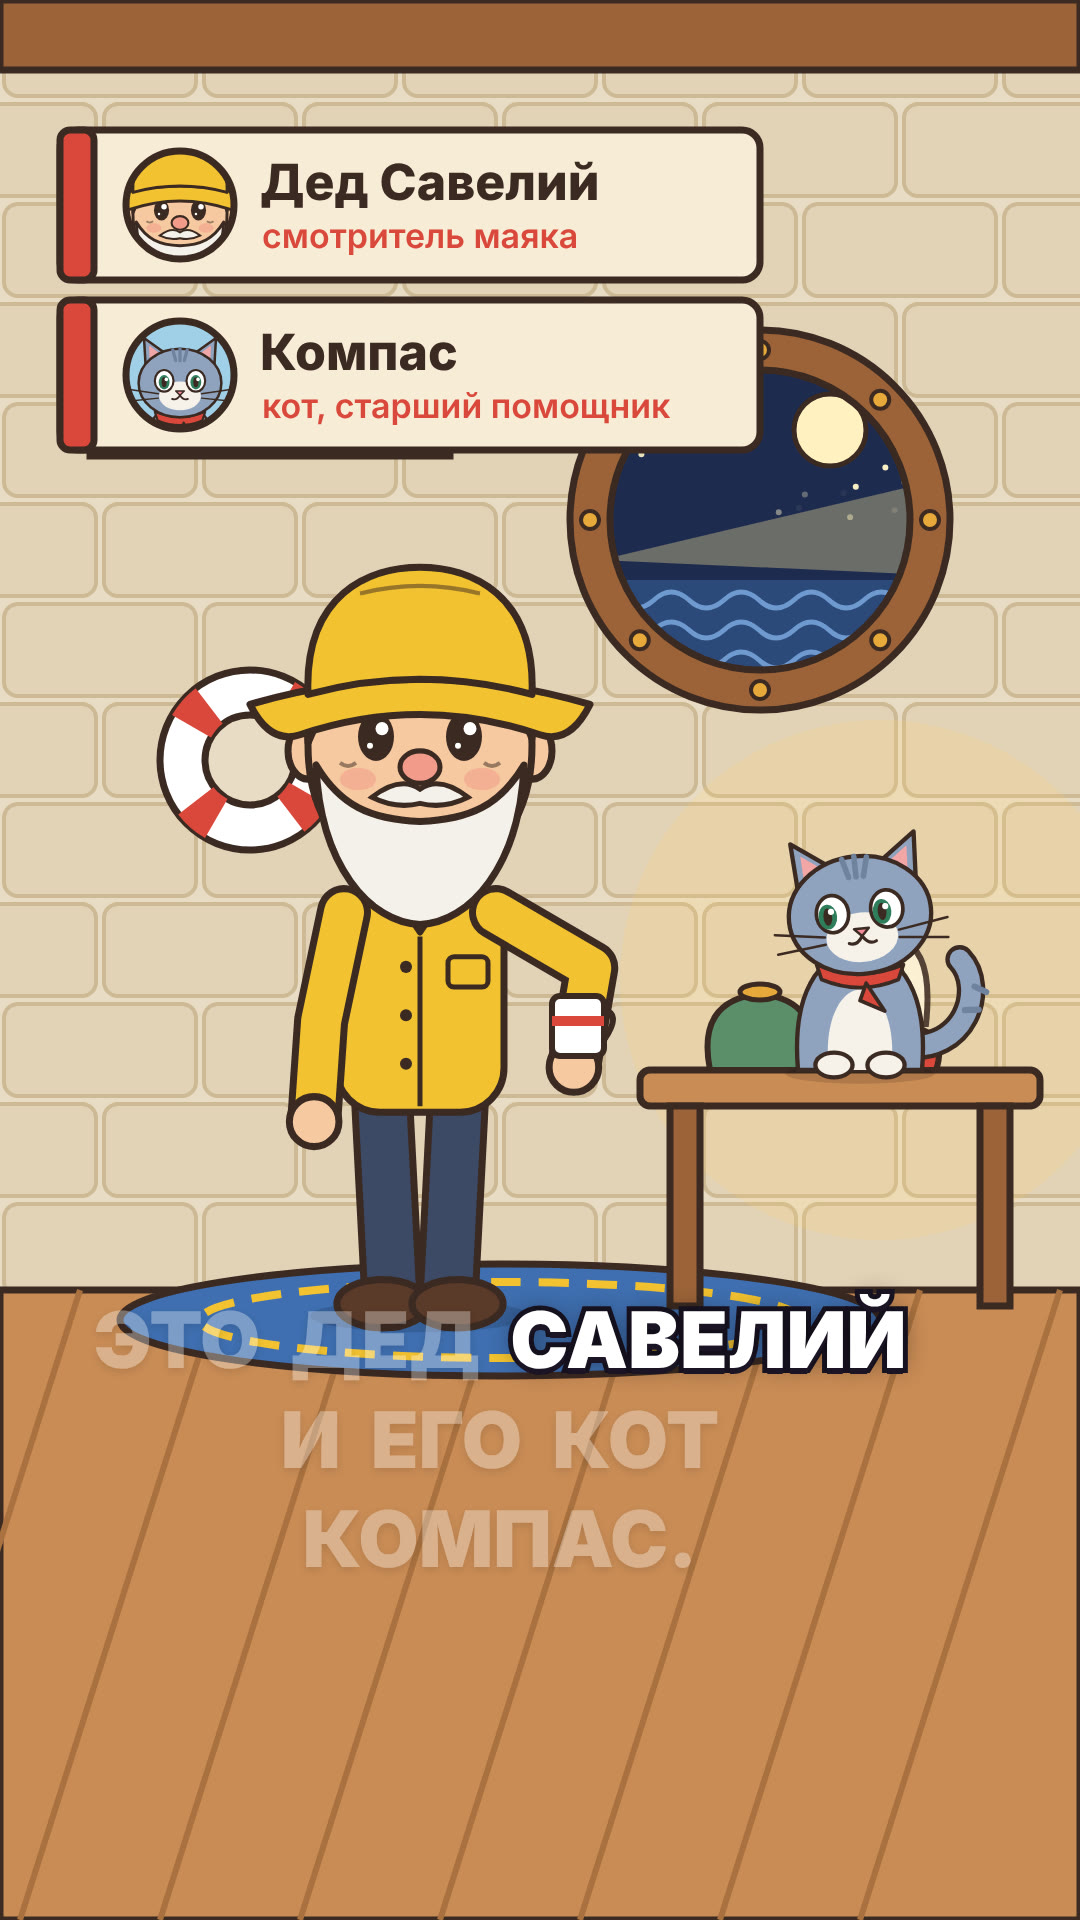
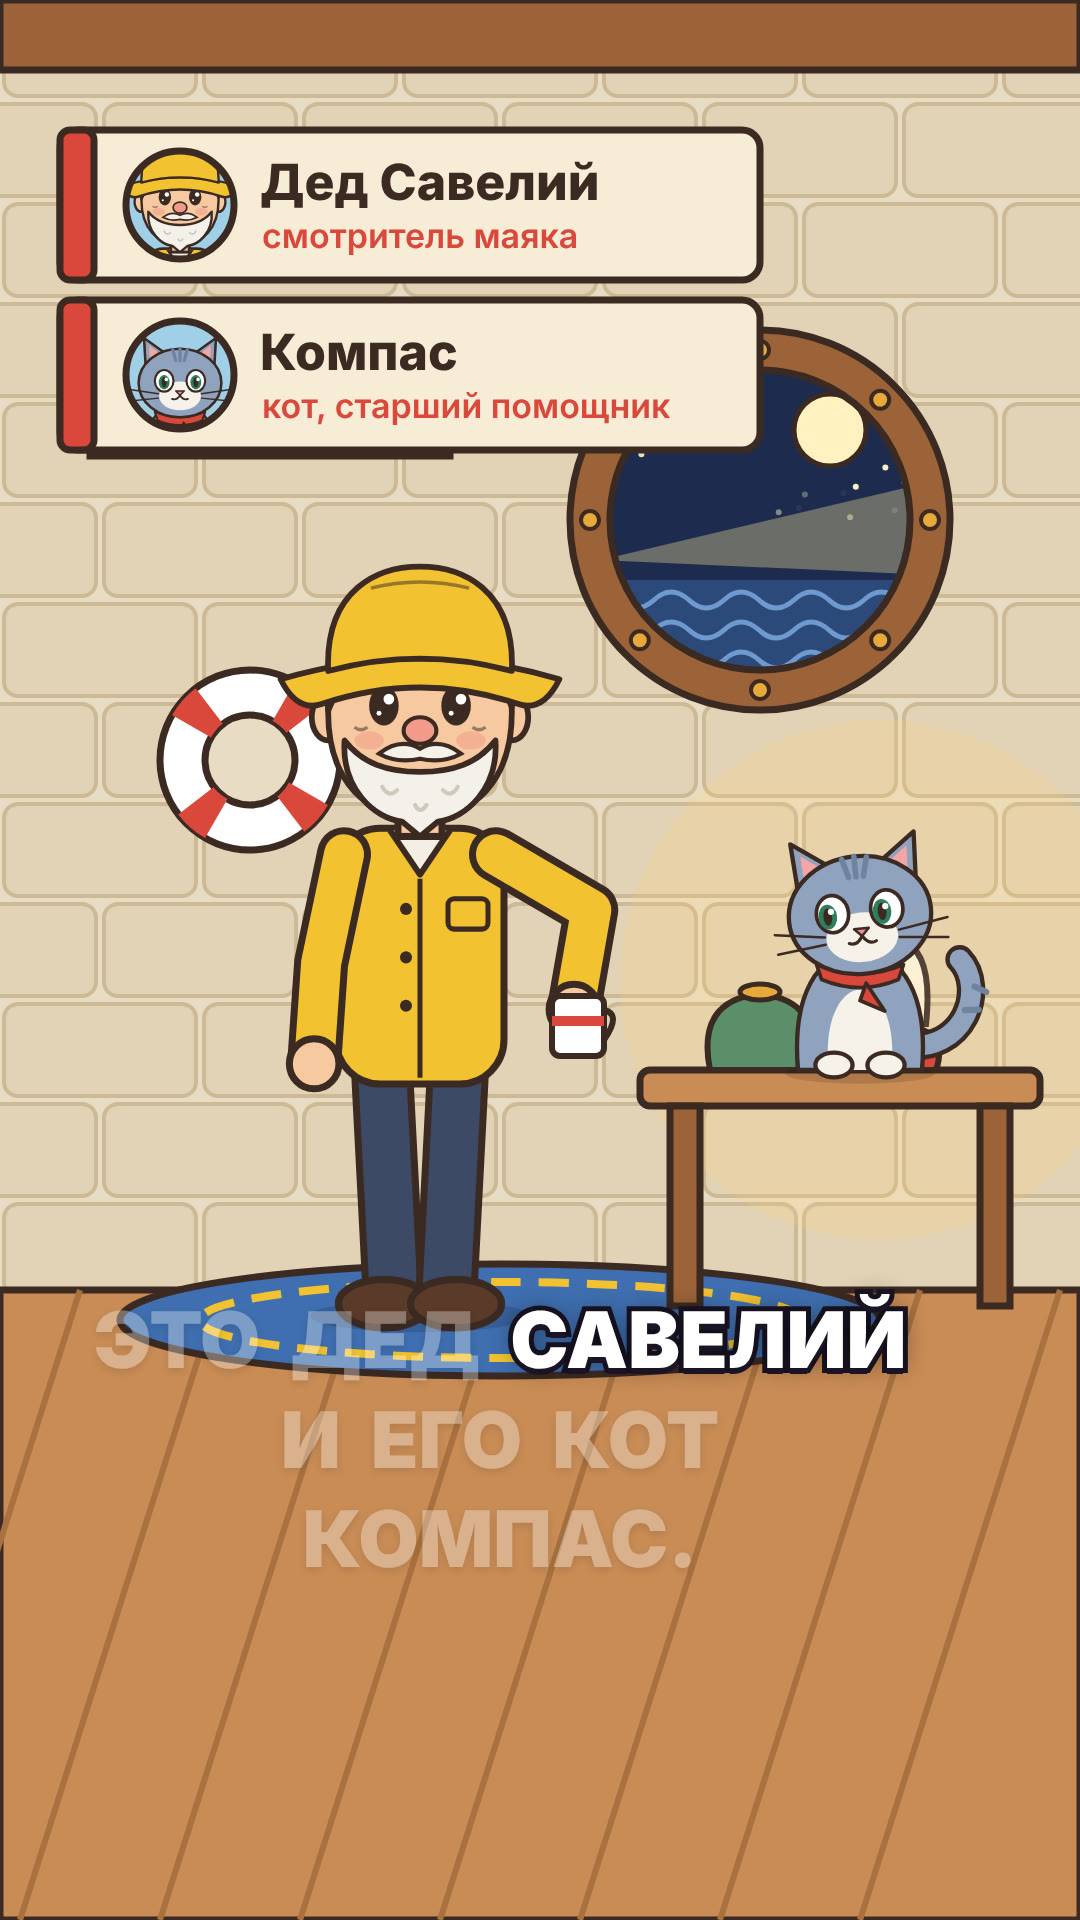
Keeper: smaller head, shorter beard, longer body
Claude-Session: https://claude.ai/code/session_01FMPcmzreS5vfUHK36F77hk

Changed region(s): [[0.2139, 0.2812, 0.5806, 0.6562], [0.1222, 0.0938, 0.2139, 0.1562], [0.5194, 0.5625, 0.55, 0.5938]]

diff --git a/videos/dvazhdy/src/cartoon/parts.tsx b/videos/dvazhdy/src/cartoon/parts.tsx
@@ -193,6 +193,8 @@ export type CharProps = {
 	hat?: 'souwester';
 	hatColor?: string;
 	nose?: boolean;
+	headS?: number; // head size multiplier
+	bodyS?: number; // torso + legs length multiplier
 };
 
 export const Char: React.FC<CharProps> = (p) => {
@@ -226,14 +228,16 @@ export const Char: React.FC<CharProps> = (p) => {
 		hat,
 		hatColor = C.ochre,
 		nose = false,
+		headS = 1,
+		bodyS = 1,
 	} = p;
 	const breathe = Math.sin(t * 2.2 + blinkSeed) * 0.012;
 	const cyc = (t + blinkSeed * 1.7) % 3.4;
 	const blink = cyc > 3.2 && cyc < 3.32 ? 0.15 : 1;
-	const legLen = kid ? 80 : 100;
+	const legLen = (kid ? 80 : 100) * bodyS;
 	const hipY = -legLen * 2 - 10;
-	const shY = hipY - (kid ? 150 : 210);
-	const headY = shY - (kid ? 120 : 140);
+	const shY = hipY - (kid ? 150 : 210) * bodyS;
+	const headY = shY - (kid ? 120 : 140) * headS;
 	const shoulderX = kid ? 62 : 84;
 	const hairCol = hair === 'old' || hair === 'boss' ? C.gray : C.hair;
 	const skin = C.skin;
@@ -298,8 +302,8 @@ export const Char: React.FC<CharProps> = (p) => {
 					</g>
 				)}
 				{/* neck + head */}
-				<rect x={-22} y={headY + 100} width={44} height={shY - headY - 90} fill={skin} stroke={OL} strokeWidth={OW} />
-				<g transform={`translate(0 ${headY}) rotate(${headTilt}) scale(${kid ? 0.82 : 1})`}>
+				<rect x={-22} y={headY + 100 * headS} width={44} height={shY - headY - 90 * headS} fill={skin} stroke={OL} strokeWidth={OW} />
+				<g transform={`translate(0 ${headY}) rotate(${headTilt}) scale(${(kid ? 0.82 : 1) * headS})`}>
 					{/* hair back (bun) */}
 					{hair === 'wife' && <circle cx={0} cy={-128} r={46} fill={hairCol} stroke={OL} strokeWidth={OW} />}
 					{/* ears */}
@@ -327,9 +331,12 @@ export const Char: React.FC<CharProps> = (p) => {
 					)}
 					<path d="M -4 16 Q 8 28 -6 34" stroke={OL} strokeWidth={6} fill="none" strokeLinecap="round" />
 					{beard && (
-						<path d="M -104 20 C -100 120 -50 176 0 178 C 50 176 100 120 104 20 C 80 60 50 74 0 76 C -50 74 -80 60 -104 20 Z" fill="#f4f1ea" stroke={OL} strokeWidth={OW} strokeLinejoin="round" />
+						<g>
+							<path d="M -92 34 C -96 92 -56 128 -22 132 L 0 150 L 22 132 C 56 128 96 92 92 34 C 70 62 40 72 0 72 C -40 72 -70 62 -92 34 Z" fill="#f4f1ea" stroke={OL} strokeWidth={OW} strokeLinejoin="round" />
+							<path d="M -46 90 q 8 14 18 4 M 28 94 q 10 10 18 -4 M -6 112 q 6 12 14 0" fill="none" stroke="#cfc8bb" strokeWidth={5} strokeLinecap="round" />
+							<path d="M -50 50 Q -24 30 0 44 Q 24 30 50 50 Q 28 62 0 56 Q -28 62 -50 50 Z" fill="#f4f1ea" stroke={OL} strokeWidth={5} />
+						</g>
 					)}
-					{beard && <path d="M -48 52 Q -20 30 0 44 Q 20 30 48 52 Q 24 64 0 58 Q -24 64 -48 52 Z" fill="#f4f1ea" stroke={OL} strokeWidth={5} />}
 					{nose && <ellipse cx={0} cy={22} rx={20} ry={16} fill={C.cheek} stroke={OL} strokeWidth={5} />}
 					{mustache && <path d="M -46 40 Q -20 24 0 36 Q 20 24 46 40 Q 24 50 0 44 Q -24 50 -46 40 Z" fill={C.gray} stroke={OL} strokeWidth={5} />}
 					{(!beard || face === 'shock' || talk > 0) && <Mouth face={face} talk={talk} />}

diff --git a/videos/dvazhdy/src/series/Keeper.tsx b/videos/dvazhdy/src/series/Keeper.tsx
@@ -60,7 +60,7 @@ export const Cat: React.FC<{x: number; y: number; s?: number; t: number; look?: 
 };
 
 const Keeper: React.FC<{x: number; y: number; s?: number; armR?: [number, number]; armL?: [number, number]; face?: 'smile' | 'neutral' | 'think' | 'shock'}> = ({x, y, s = 1, armR, armL, face = 'smile'}) => (
-	<Char x={x} y={y} s={s} hair="old" beard nose hat="souwester" hatColor={COAT} jacket={COAT} pants="#3d4a66" face={face} armR={armR} armL={armL} />
+	<Char x={x} y={y} s={s} headS={0.82} bodyS={1.14} hair="old" beard nose hat="souwester" hatColor={COAT} jacket={COAT} pants="#3d4a66" face={face} armR={armR} armL={armL} />
 );
 
 // ------------------------------------------------------------------ scene 1: inside the lighthouse
@@ -208,7 +208,7 @@ const Outside: React.FC<{t: number}> = ({t}) => (
 		<Lighthouse x={230} y={990} t={t} />
 		<Keeper x={560} y={1010} s={0.82} armR={[100, -30]} face="neutral" />
 		{/* lantern */}
-		<g transform={`translate(745 ${770 + Math.sin(t * 3) * 4})`}>
+		<g transform={`translate(782 ${718 + Math.sin(t * 3) * 3})`}>
 			<circle r={70} fill="#ffd36a" opacity={0.35} />
 			<path d="M -16 -50 Q 0 -70 16 -50" fill="none" stroke={OL} strokeWidth={6} />
 			<rect x={-26} y={-48} width={52} height={70} rx={8} fill="#3a3f55" stroke={OL} strokeWidth={6} />
